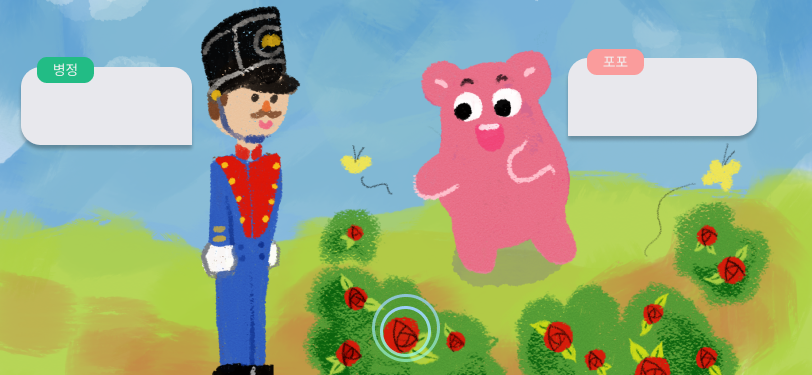
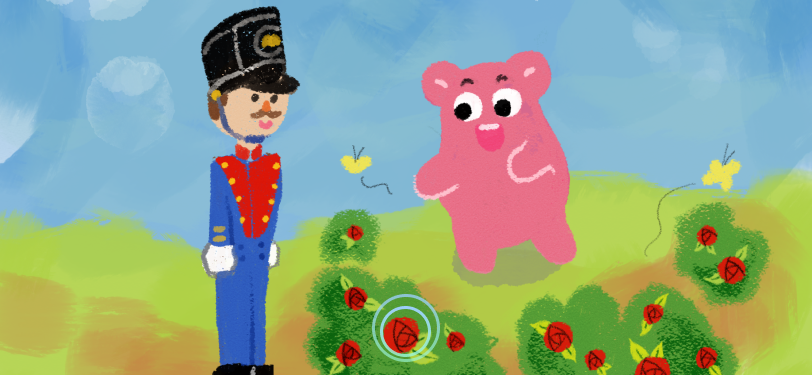
Desigin: Loading, Story

Changed region(s): [[0.6773, 0.1173, 0.9544, 0.3813], [0.0, 0.1467, 0.2463, 0.4107]]

diff --git a/src/components/Story/StoryLoading.js b/src/components/Story/StoryLoading.js
@@ -1,30 +1,69 @@
-import * as React from 'react';
-import { TouchableOpacity } from 'react-native';
-import { Button, View, Text, StyleSheet } from 'react-native';
+import * as React from "react";
+import { TouchableOpacity } from "react-native";
+import { Button, View, Text, StyleSheet, Image } from "react-native";
+import { useState } from "react/cjs/react.production.min";
 
-const StoryLoading = ({navigation}) => {
-    return (
-        <View>
-            <Text>앗, 도와줘! 우당탕탕 왕국 모험</Text>
-            <View>
-                <TouchableOpacity style={styles.selectAg} onPress={() => navigation.navigate('StoryMain')}>
-                    <Text>아니요, 다른 모험을 선택할래요!</Text>
-                </TouchableOpacity>
-            </View>
-        </View>
-    )
-}
-
-export default StoryLoading;
+const StoryLoading = ({ navigation }) => {
+  return (
+    <View style={styles.container}>
+      <Text style={styles.title}>앗, 도와줘! 우당탕탕 왕국 모험</Text>
+      <Image
+        source={require("../../assets/LoadingImg.png")}
+        style={styles.loadingImg}
+      />
+      <View style={styles.btnContainer}>
+        <TouchableOpacity
+          style={styles.selectAg}
+          onPress={() => navigation.navigate("Story1")}
+        >
+          <Text style={styles.btnText}>계속 모험을 진행할래요!</Text>
+        </TouchableOpacity>
+        <TouchableOpacity
+          style={styles.selectAg}
+          onPress={() => navigation.navigate("StoryMain")}
+        >
+          <Text style={styles.btnText}>아니요, 다른 모험을 선택할래요!</Text>
+        </TouchableOpacity>
+      </View>
+    </View>
+  );
+};
 
 const styles = StyleSheet.create({
-    selectAg: {
-        width: 343,
-        height: 56,
-        backgroundColor: '#B16CF7',
-        display: 'flex',
-        justifyContent: 'center',
-        alignItems: 'center',
-        color: 'white'
-    }
-})
+  container: {
+    display: "flex",
+    alignItems: "center",
+  },
+  title: {
+    marginTop: 35,
+    marginBottom: 30,
+    fontSize: 20,
+  },
+  loadingImg: {
+    height: 300,
+    width: 300,
+    marginBottom: 30,
+  },
+  btnContainer: {
+    height: "50%",
+    display: "flex",
+    alignItems: "center",
+  },
+  selectAg: {
+    width: 343,
+    height: 56,
+    backgroundColor: "#B16CF7",
+    display: "flex",
+    justifyContent: "center",
+    alignItems: "center",
+    color: "white",
+    marginTop: 10,
+    borderRadius: 20,
+  },
+  btnText: {
+    color: "white",
+    fontSize: 16,
+  },
+});
+
+export default StoryLoading;

diff --git a/src/components/Story/StoryOne.js b/src/components/Story/StoryOne.js
@@ -7,6 +7,7 @@ import {
   TouchableOpacity,
 } from "react-native";
 import Orientation from "react-native-orientation";
+import Tts from "react-native-tts";
 
 const StoryOne = ({ navigation }) => {
   useEffect(() => {
@@ -26,6 +27,14 @@ const StoryOne = ({ navigation }) => {
     }
   };
 
+  Tts.setDefaultLanguage("ko-KR");
+  setTimeout(() => {
+    Tts.speak("정원이 정말 아름답구나!");
+  }, 1000);
+  setTimeout(() => {
+    Tts.speak("우와, 예쁜 장미꽃이 피어있네?");
+  }, 4000);
+
   return (
     <View>
       <ImageBackground
@@ -36,9 +45,11 @@ const StoryOne = ({ navigation }) => {
         }}
         resizeMode="cover"
       >
-        <Text style={styles.line1}>정원이 정말 아름답구나!</Text>
-        <View>
-          <Text style={styles.line2}>우와, 예쁜</Text>
+        <View style={styles.textBox1}>
+          <Text style={styles.line1}>정원이 정말 아름답구나!</Text>
+        </View>
+        <View style={styles.textBox2}>
+          <Text style={styles.line2}>우와, 예쁜 </Text>
           <Text
             style={styles.word1}
             onPress={() => navigation.navigate("Practice")}
@@ -55,20 +66,41 @@ const StoryOne = ({ navigation }) => {
 export default StoryOne;
 
 const styles = StyleSheet.create({
+  textBox1: {
+    width: 165,
+    height: 78,
+    left: "3%",
+    top: "15%",
+    backgroundColor: "#E8E8ED",
+    borderBottomLeftRadius: 20,
+    borderTopRightRadius: 20,
+    borderTopLeftRadius: 20,
+    display: "flex",
+    justifyContent: "center",
+    alignItems: "center",
+  },
+  textBox2: {
+    width: 180,
+    height: 78,
+    left: "145%",
+    top: "0%",
+    backgroundColor: "#E8E8ED",
+    borderBottomRightRadius: 20,
+    borderTopRightRadius: 20,
+    borderTopLeftRadius: 20,
+    display: "flex",
+    flexDirection: "row",
+    justifyContent: "center",
+    alignItems: "center",
+  },
   line1: {
-    top: "25%",
-    left: "5%",
     fontSize: 13,
   },
   word1: {
-    top: "65%",
-    left: "73%",
     fontSize: 13,
     color: "#fb5a60",
   },
   line2: {
-    top: "65%",
-    left: "73%",
     fontSize: 13,
   },
 });

diff --git a/src/components/Story/Practice.js b/src/components/Story/Practice.js
@@ -1,5 +1,5 @@
 import React from "react";
-import { ImageBackground, View } from "react-native";
+import { ImageBackground, View, Text, StyleSheet } from "react-native";
 
 const Practice = () => {
   return (
@@ -11,9 +11,27 @@ const Practice = () => {
           height: "100%",
         }}
         resizeMode="cover"
-      ></ImageBackground>
+      >
+        <View style={styles.word}>
+          <Text>장미꽃</Text>
+        </View>
+      </ImageBackground>
     </View>
   );
 };
 
 export default Practice;
+
+const styles = StyleSheet.create({
+  word: {
+    width: 70,
+    height: 35,
+    top: "10%",
+    left: "43%",
+    backgroundColor: "#FACE34",
+    borderRadius: 20,
+    display: "flex",
+    justifyContent: "center",
+    alignItems: "center",
+  },
+});

diff --git a/src/components/Story/StoryMain.js b/src/components/Story/StoryMain.js
@@ -14,7 +14,8 @@ import { useNavigation } from "@react-navigation/native";
 const ListItem = ({ item }) => {
   const navigation = useNavigation();
   return (
-    <TouchableOpacity onPress={() => navigation.navigate(item.route)}>
+    //<TouchableOpacity onPress={() => navigation.navigate(item.route)}>
+    <TouchableOpacity onPress={() => navigation.navigate("StoryLoading")}>
       <View style={styles.item}>
         <Image
           source={{
